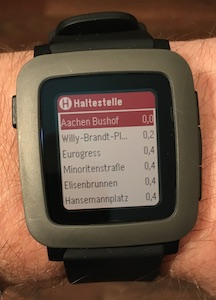
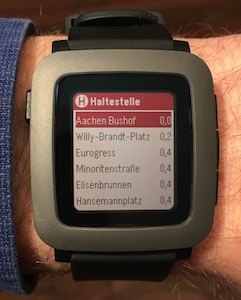
Allow more space for bus stop name, less for distance

diff --git a/src/bus_stop_selection.c b/src/bus_stop_selection.c
@@ -10,8 +10,8 @@
 #define BUS_STOP_MARGIN_TOP      27
 #define BUS_STOP_MARGIN_LEFT      3
 #define BUS_STOP_HEIGHT          23
-#define BUS_STOP_NAME_WIDTH     100
-#define BUS_STOP_DIST_WIDTH      38
+#define BUS_STOP_NAME_WIDTH     118
+#define BUS_STOP_DIST_WIDTH      20
 
 #define BUS_STOP_NAME_SIZE       32
 #define BUS_STOP_DIST_SIZE        8
